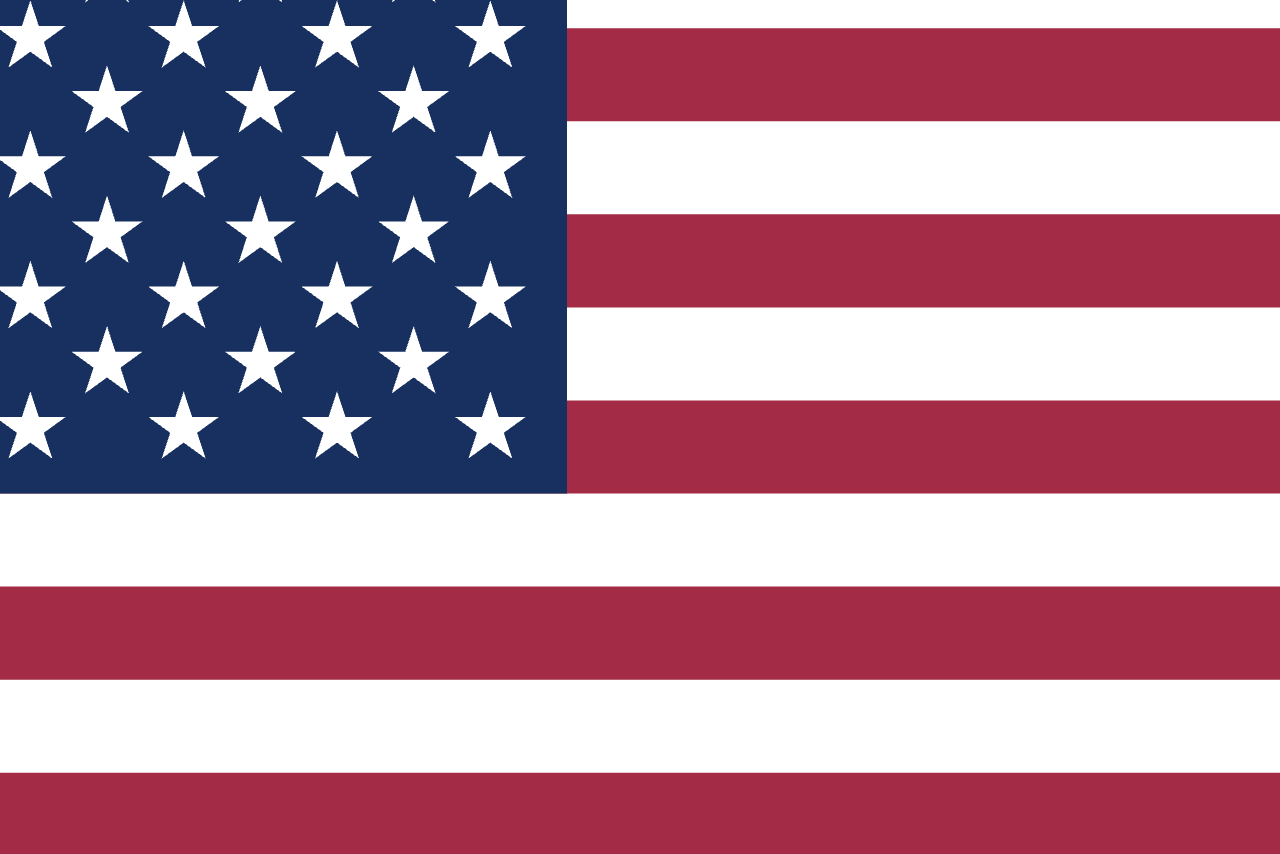
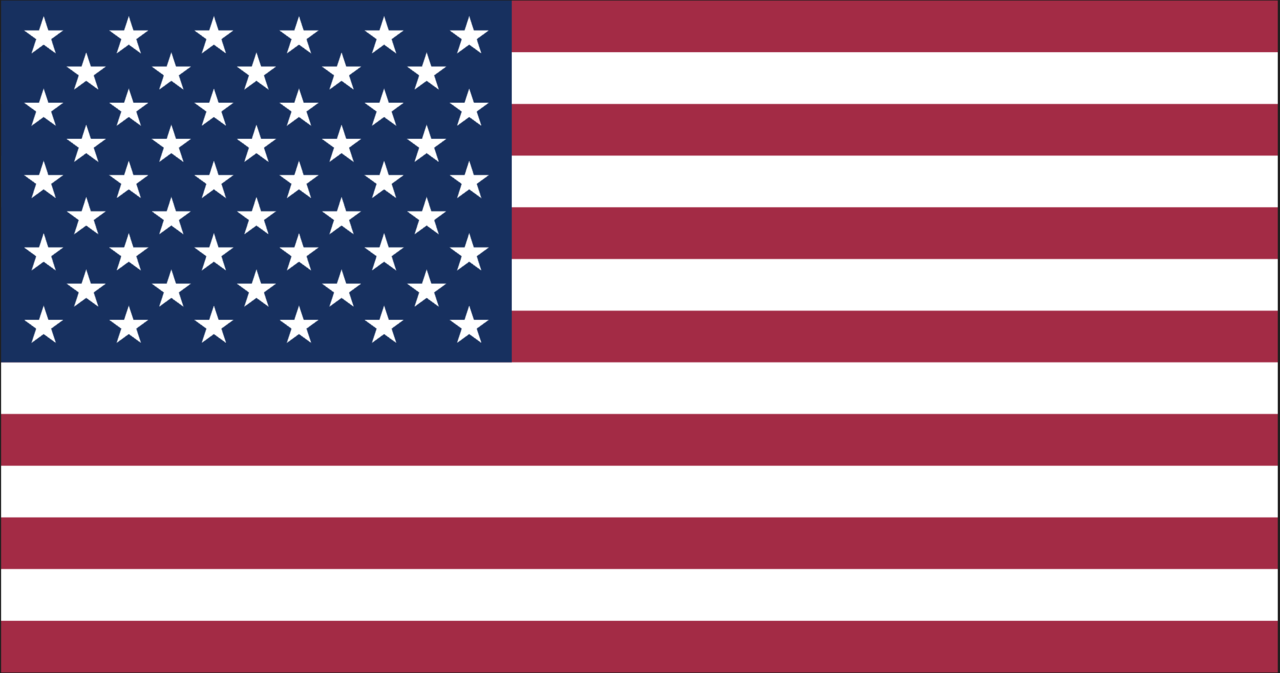
Add USA flag

diff --git a/src/lib/build-info.ts b/src/lib/build-info.ts
@@ -1,3 +1,3 @@
 // This file is automatically updated by git hooks before commits
 // Last update timestamp in JST (Japan Standard Time)
-export const LAST_UPDATE = "2026-01-23 12:09:55 JST";
+export const LAST_UPDATE = "2026-01-23 12:24:18 JST";
